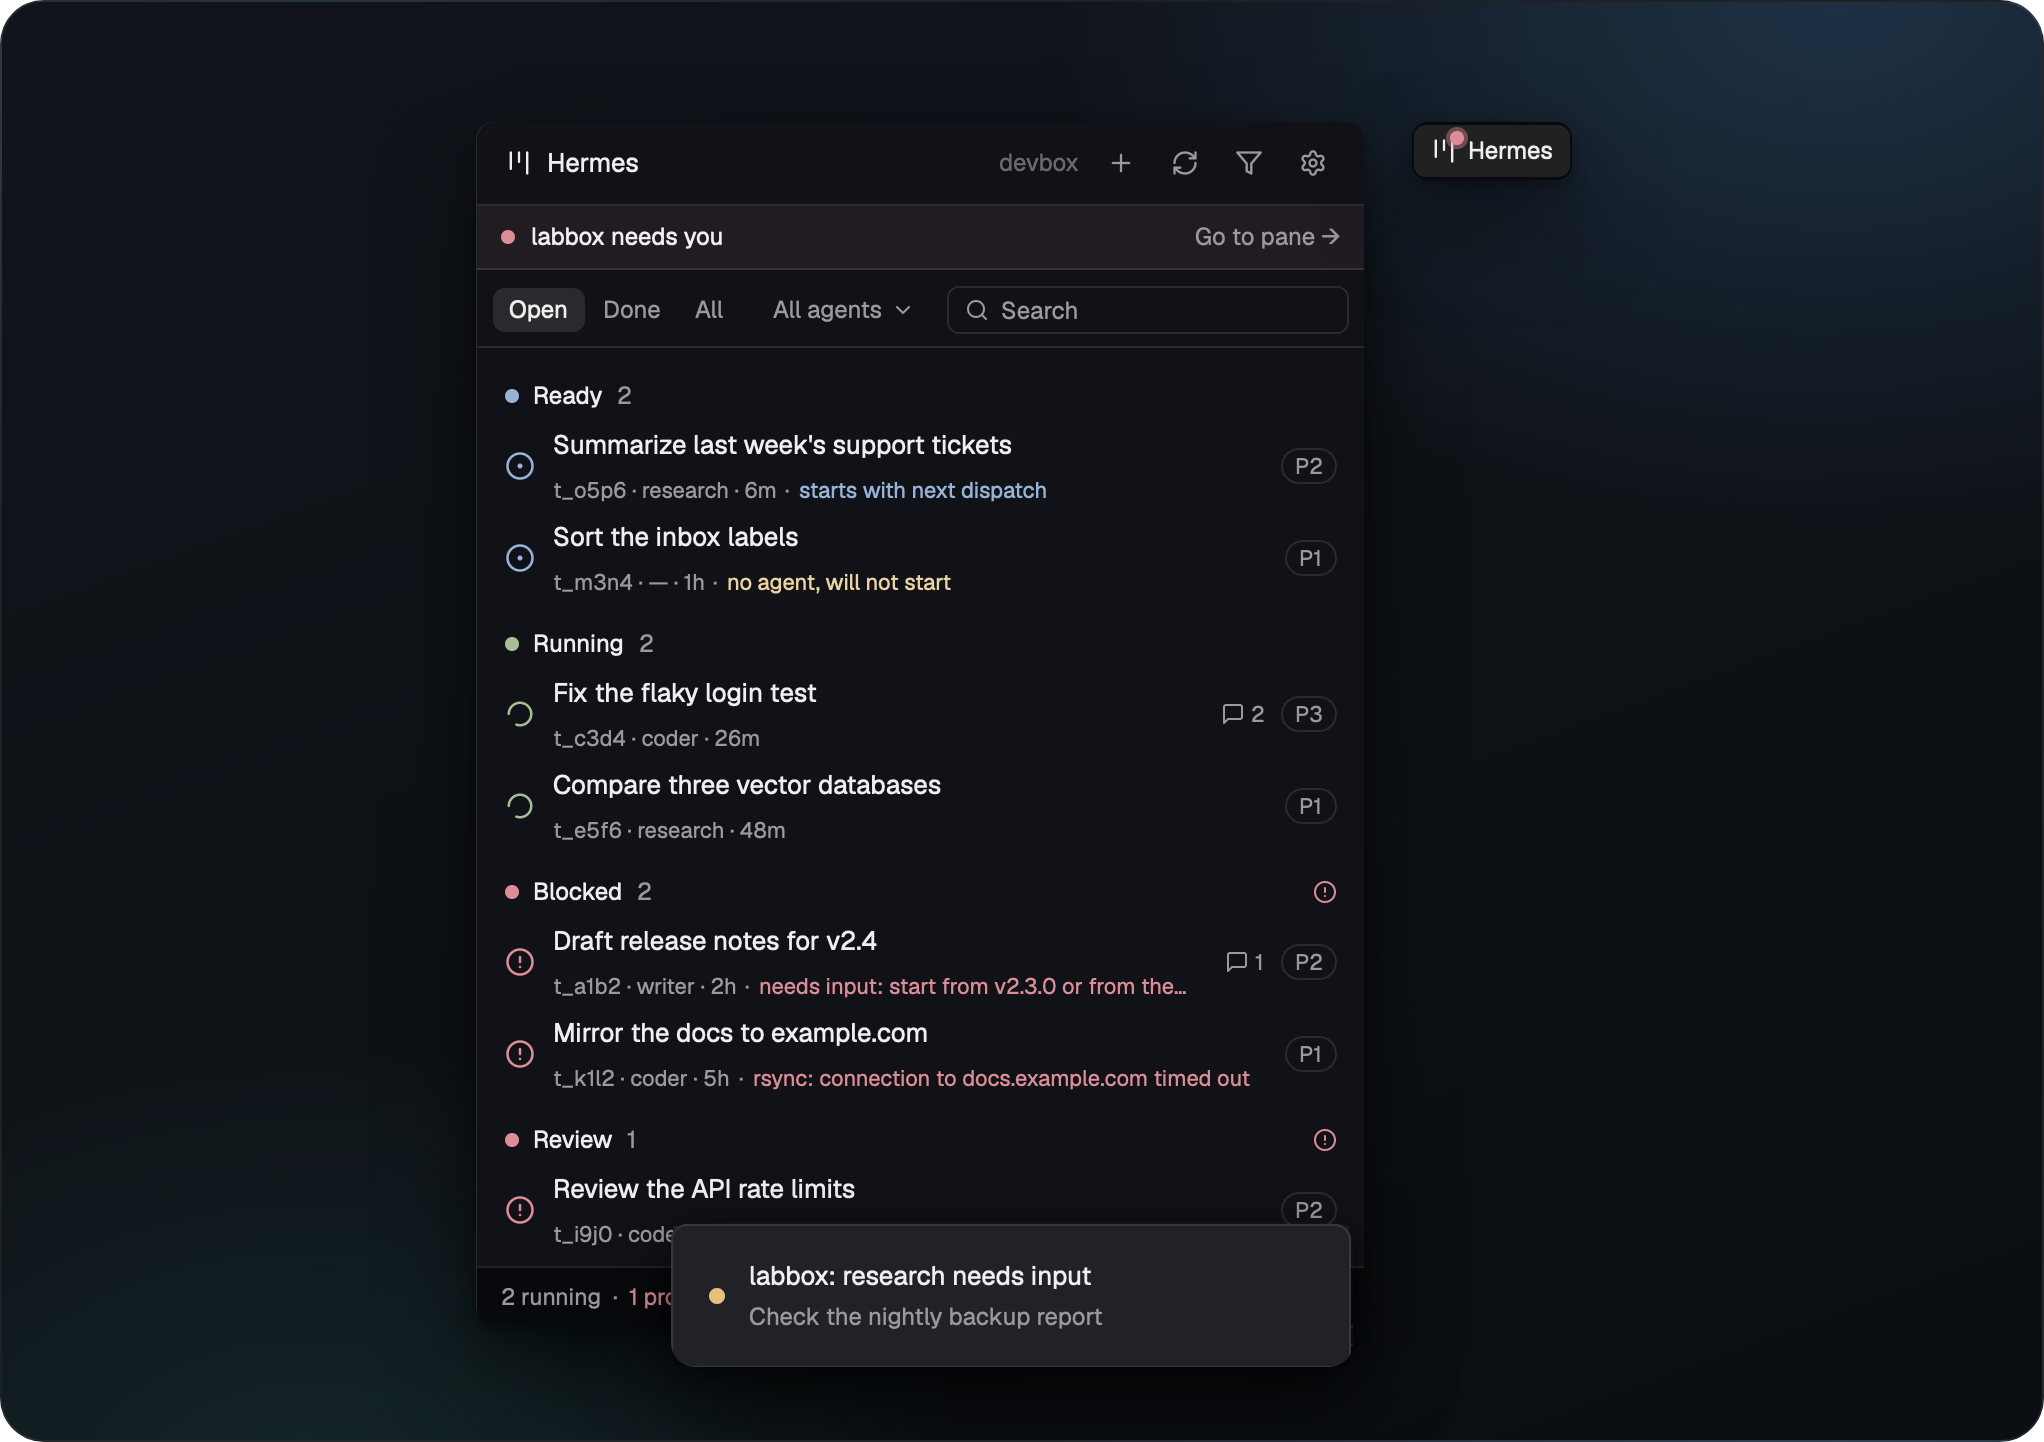
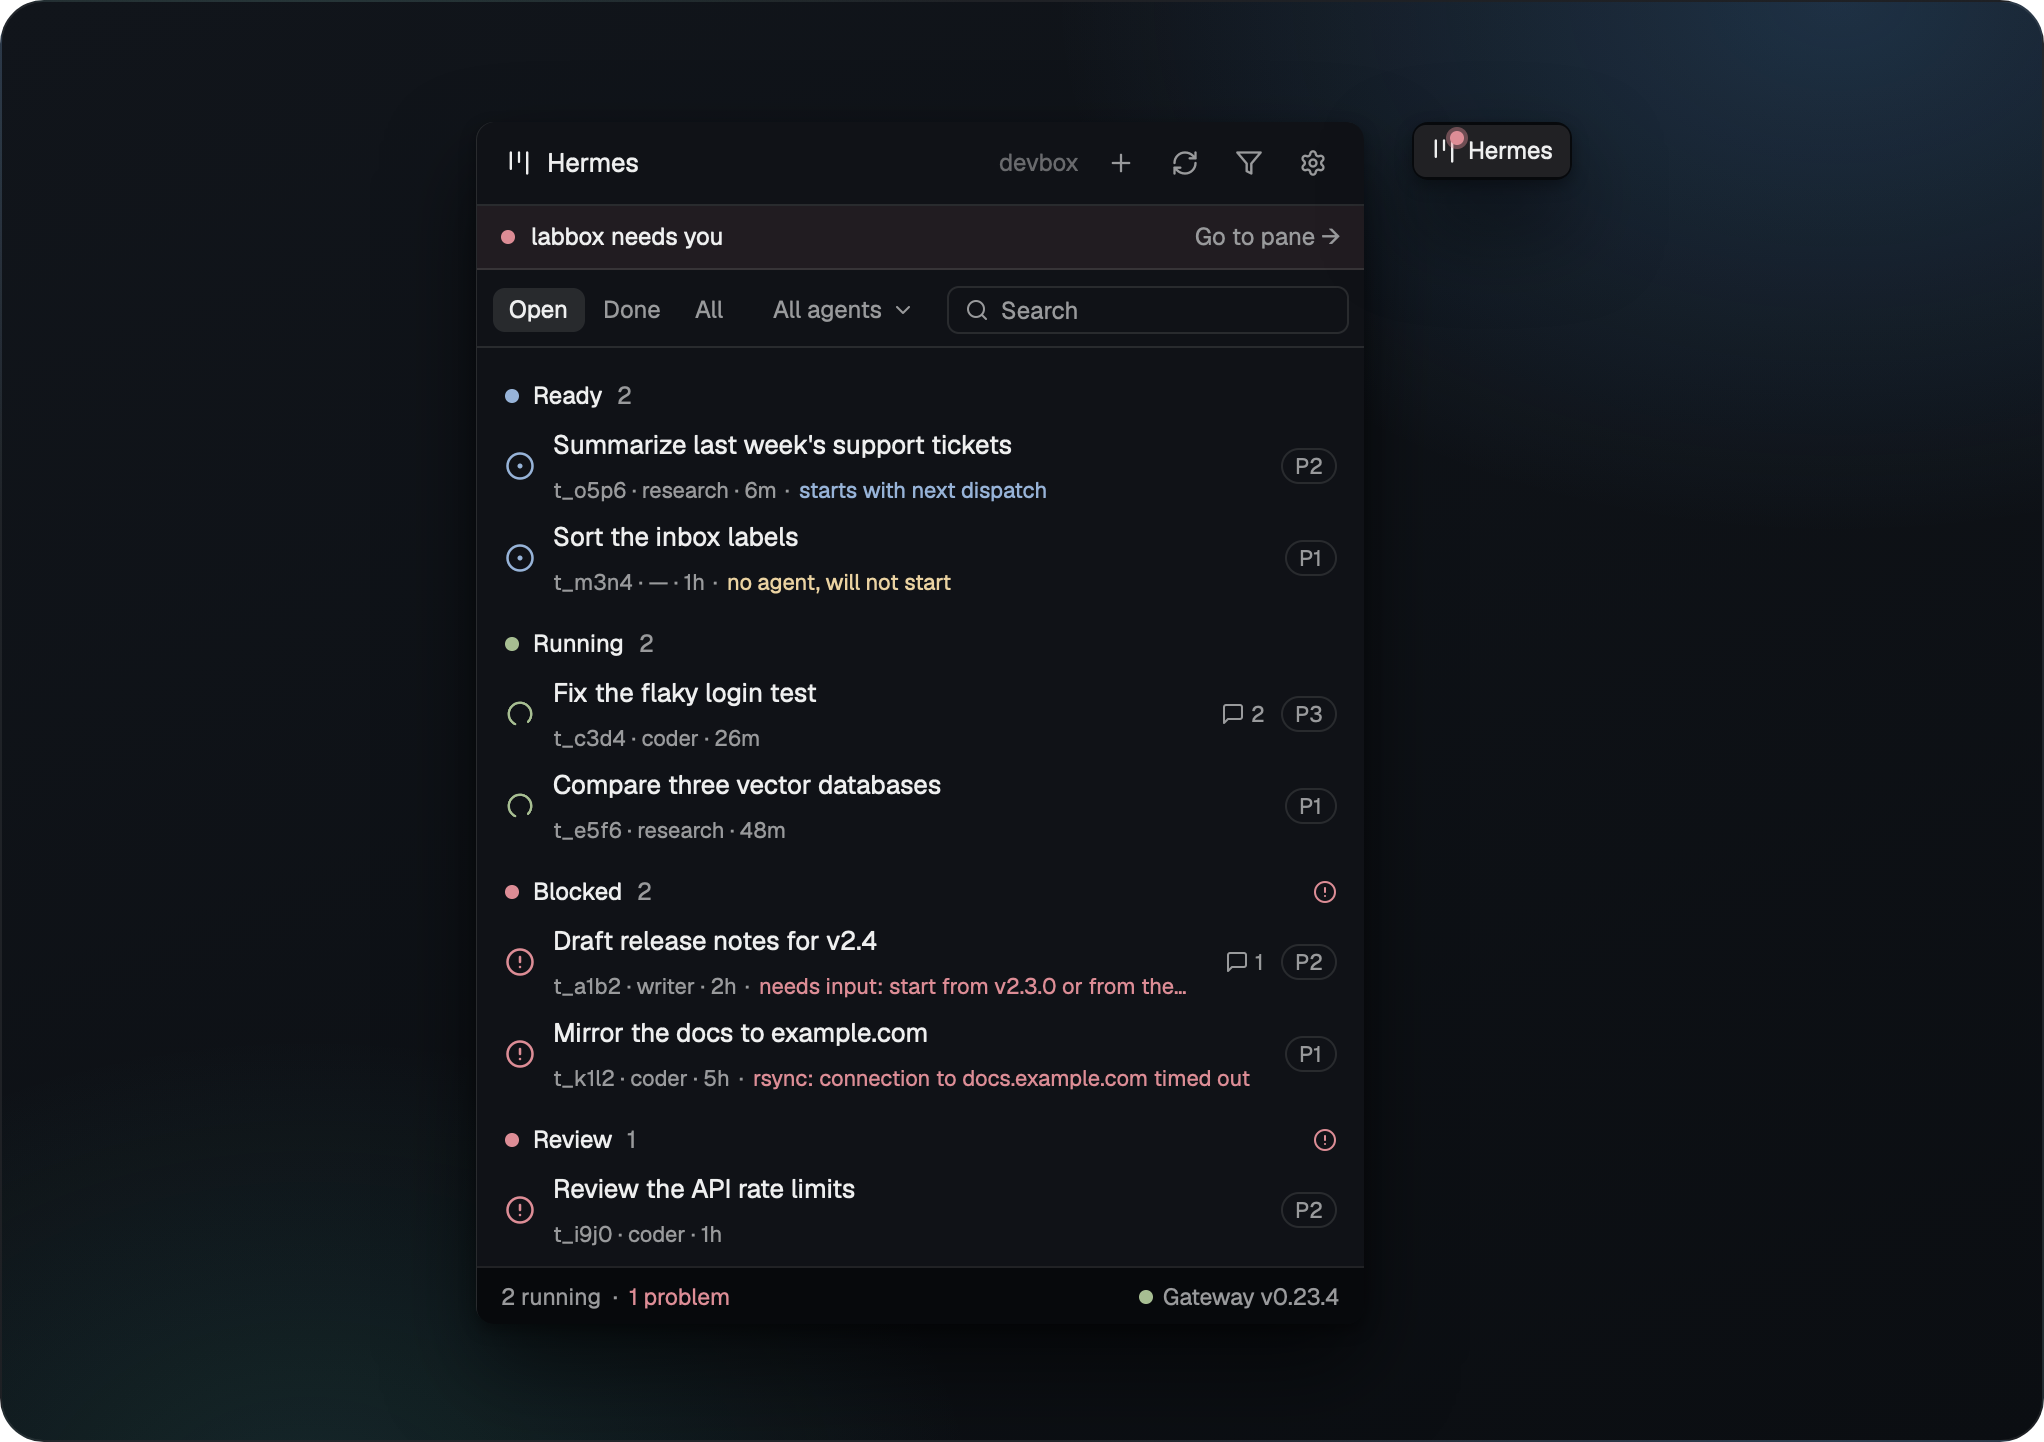
docs: show no toast in the notifications screenshot
The notifications scene turns the toasts off; its card keeps the strip
"labbox needs you" and the red dot on the Hermes button. TOAST_BOX is
gone, and the caption no longer promises a toast.

Changed region(s): [[0.3082, 0.8738, 0.6781, 0.9674]]

diff --git a/scripts/screenshots/cards/notifications.html b/scripts/screenshots/cards/notifications.html
@@ -2,17 +2,13 @@
 <html lang="en"><head><meta charset="utf-8"><title>Notifications card</title>
 <link rel="stylesheet" href="card.css">
 <style>
-/* Left: the panel of devbox with the red strip "labbox needs you", and the toast of the labbox task that needs input where
-   Herdr shows it, over the bottom of the panel. Right: the Hermes button with its red dot. Each at its own size (2x);
-   rendered by shoot.sh at 1022 x (H_NOTIFY + 32). The toast sits at its offset in the raw shot: TOAST_BOX minus the
-   panel's crop origin (y 102, x 813), halved. */
+/* Left: the panel of devbox with the red strip "labbox needs you". Right: the Hermes button with its red dot. No toast.
+   Each at its own size (2x); rendered by shoot.sh at 1022 x (H_NOTIFY + 32). */
 html, body { width: 1022px; height: 721px; }
 .panel { left: 237px; top: 60px; width: 444px; }
-.toast { left: 334.5px; top: 610px; width: 341px; border-radius: 12px; }
 .button { left: 705px; top: 60px; width: 80px; border-radius: 8px; }
 </style></head>
 <body><div class="frame">
   <div class="shot panel"><img src="notifications-panel.png" alt=""></div>
-  <div class="shot toast"><img src="notifications-toast.png" alt=""></div>
   <div class="shot button"><img src="notifications-button.png" alt=""></div>
 </div></body></html>

diff --git a/scripts/screenshots/README.md b/scripts/screenshots/README.md
@@ -16,7 +16,7 @@ What it never does: touch your own Herdr or its installed mod, reach a machine, 
 
 ## Files
 
-- `shoot.sh`: the whole run (prepare, launch, drive, shoot, quit, clean, crop, render). Sizes as in GitHub Checker: `preview.png` 2044 x 1144, and every feature card as wide (2044 px), its panel, overlay or dialog centered at its own size. Each window is 860 points wide at 2x (panel 446 points, app zoom 1); its height is set per card (`H_*` in `shoot.sh`) so the panel shows its rows down to its status bar. The board card shows the whole panel; the overlay card the whole task overlay; the notifications card the panel with the strip `labbox needs you`, the toast back where Herdr shows it and the `Hermes` button with its dot; the settings card the dialog. The hero's list ends after its last whole row and joins the status bar. The boxes of the toast, the button, the overlay and the dialog are measured on the raw shots (`TOAST_BOX`, `BUTTON_BOX`, `OVERLAY_BOX`, `DIALOG_BOX` in `shoot.sh`). When the fake data or the mod's rows change, adjust `H_*` (one row is 46 points, a group heading 32) and look at every card again.
+- `shoot.sh`: the whole run (prepare, launch, drive, shoot, quit, clean, crop, render). Sizes as in GitHub Checker: `preview.png` 2044 x 1144, and every feature card as wide (2044 px), its panel, overlay or dialog centered at its own size. Each window is 860 points wide at 2x (panel 446 points, app zoom 1); its height is set per card (`H_*` in `shoot.sh`) so the panel shows its rows down to its status bar. The board card shows the whole panel; the overlay card the whole task overlay; the notifications card the panel with the strip `labbox needs you` and the `Hermes` button with its dot (no image shows a toast: the scene turns them off); the settings card the dialog. The hero's list ends after its last whole row and joins the status bar. The boxes of the button, the overlay and the dialog are measured on the raw shots (`BUTTON_BOX`, `OVERLAY_BOX`, `DIALOG_BOX` in `shoot.sh`). When the fake data or the mod's rows change, adjust `H_*` (one row is 46 points, a group heading 32) and look at every card again.
 - `demo-instance.sh`: `prepare | start | space | turn | quit | clean` for the separate instance. Its `HERDR_APP_HOME` is `tmp/shots-home` and its core session `hkshots`. It deletes only fixed paths below `tmp/` and the core state `~/.local/state/herdr-core/hkshots`, and refuses anything else; `quit` kills the instance by its PID (matched on its own `HERDR_APP_HOME`) when it does not quit. `prepare` creates the demo folders below `tmp/shots-spaces`, copies the mod of this checkout, patches that copy with `demo-hook.mjs`, and writes a layout with the panel shown and the `Hermes` button in the tab bar. It also marks the welcome screen and the what's-new window as done, so no popup needs a click, and the update check as done today (up to date; `DEMO_UPDATE=1` makes a release 1.1.0 available, for the gold gear and box, never for the README). `DEMO_SCENE` picks the fake board (`board`, `overlay`, `notifications`); `turn` makes a task on `labbox` need input.
 - `demo-hook.mjs`: patches the instance's copy of the mod (never `mods/hermes-kanban`, never your installed mod): every `exec` the mod runs on a machine goes to `demo/hermes.mjs`, run on this computer; the spaces named `devbox` and `labbox` count as those machines, with Hermes in their terminals; the update check asks GitHub nothing. It stops loudly when an anchor in the mod has moved; `test/screenshot-hook.test.js` applies it to the current mod on every `npm test`, checks that the fake answers every call the mod makes, and that the shipped mod has no trace of it.
 - `demo/hermes.mjs`: the fake Hermes. It answers the Kanban API (`/board`, `/workflow`, `/orchestration`, `/diagnostics`, `/tasks/<id>`, `/api/status`), the stamp, the probe, the access scripts and the gateway restart, with made-up tasks such as `Draft release notes for v2.4` for the agents `writer`, `coder` and `research`, with times relative to now. Writes such as a move, a comment or a new task answer as Hermes does and change nothing.

diff --git a/README.md b/README.md
@@ -59,7 +59,7 @@ Then click `Hermes` in the tab bar.
 - **Other instances:** a red strip `labbox needs you` with `Go to pane →` under the header when another visible instance has news for you.
 - **Sounds** and a Dock badge, each with its own switch.
 
-![A toast, the strip for another instance and the dot on the Hermes button](screenshots/notifications.png)
+![The strip for another instance that needs you and the dot on the Hermes button](screenshots/notifications.png)
 
 ### Set up access
 
